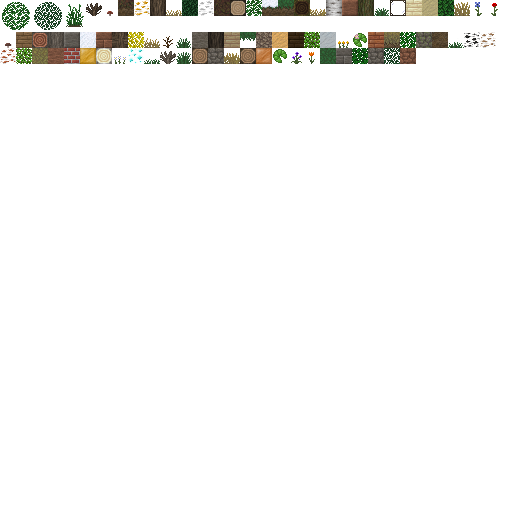
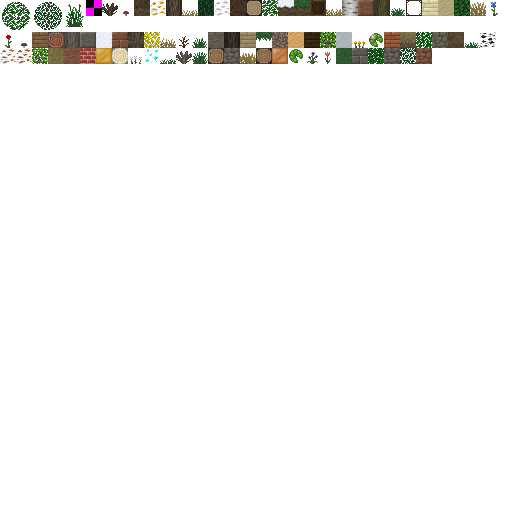
Refactored Timer class and made Texture Atlas load missing texture.

Changed region(s): [[0.0, 0.0625, 0.9688, 0.125], [0.1562, 0.0, 0.9688, 0.0312]]

diff --git a/GlProject/engine/TextureAtlas.cpp b/GlProject/engine/TextureAtlas.cpp
@@ -36,19 +36,19 @@ TextureAtlas::TextureAtlas(const char* directory) {
     glGetIntegerv(GL_MAX_TEXTURE_SIZE, &maxTexSize);
     std::cout << "This GPU's max texture size is: " << maxTexSize / 4 << "px^2." << std::endl;
 
-    //Using cute_files to open the directory and recursively search for files.
+    //Using cute_files to open the directory and search for files.
     //Filter the files by extension and add all of them to a vector as TextureRefs.
     cf_dir_t dir;
     cf_dir_open(&dir, (std::string(directory) + std::string("/game")).c_str());
 
     std::list<TextureRef> textureRefs;
-//
-//    //Load Missing Texture
-//    auto msg = TextureRef();
-//    strcpy(msg.path, "../Textures/_missing.png");
-//    strcpy(msg.name, "_missing.png");
-//    msg.texData = stbi_load(msg.path, &msg.width, &msg.height, &msg.bitDepth, 4);
-//    textureRefs.push_back(msg);
+
+    //Load Missing Texture
+    auto msg = TextureRef();
+    strcpy(msg.path, "../Textures/_missing.png");
+    strcpy(msg.name, "_missing.png");
+    msg.texData = stbi_load(msg.path, &msg.width, &msg.height, &msg.bitDepth, 4);
+    textureRefs.push_back(msg);
 
     //Iterate though the files
     while (dir.has_next) {
@@ -57,7 +57,7 @@ TextureAtlas::TextureAtlas(const char* directory) {
 
         if (!file.is_dir && strcmp(file.ext, ".png") == 0) {
 
-//            printf("Processing Texture: %s\n", file.name);
+            printf("Loading Texture: %s\n", file.name);
 
             auto ref = TextureRef();
             strcpy(ref.path, file.path);
@@ -138,10 +138,11 @@ TextureAtlas::TextureAtlas(const char* directory) {
 Texture* TextureAtlas::getTexture() {
     return texture;
 }
+
 glm::vec4* TextureAtlas::getUVs(std::string* texture) {
     if (textures.count(*texture) == 0) {
         std::cout << "Texture '" << *texture << "' Not found in atlas! Terminating." << std::endl;
-        throw "Texture not found error";
+        throw std::exception();
     }
     return &textures.at(*texture);
 }

diff --git a/GlProject/engine/Timer.cpp b/GlProject/engine/Timer.cpp
@@ -9,7 +9,7 @@ Timer::Timer(const char* name) {
      start = std::chrono::high_resolution_clock::now();
 }
 
-void Timer::elapsed() {
+void Timer::elapsedNs() {
      auto finish = std::chrono::high_resolution_clock::now();
 
      long elapsed = std::chrono::duration_cast<std::chrono::nanoseconds>(finish - start).count();
@@ -17,7 +17,7 @@ void Timer::elapsed() {
      printf("%s took %ld ns.\n", this->name, elapsed);
 }
 
-void Timer::elapsedInMs() {
+void Timer::elapsedMs() {
      auto finish = std::chrono::high_resolution_clock::now();
 
      double elapsed = std::chrono::duration_cast<std::chrono::nanoseconds>(finish - start).count() / (double)1000000;
@@ -25,3 +25,10 @@ void Timer::elapsedInMs() {
      printf("%s took %.2f ms.\n", this->name, elapsed);
 }
 
+void Timer::elapsed() {
+    auto finish = std::chrono::high_resolution_clock::now();
+
+    double elapsed = std::chrono::duration_cast<std::chrono::nanoseconds>(finish - start).count() / (double)1000000 / (double)1000;
+
+    printf("%s took %.2f secs.\n", this->name, elapsed);
+}

diff --git a/GlProject/Main.cpp b/GlProject/Main.cpp
@@ -77,6 +77,8 @@ void makeEntities(BlockModel* model) {
 }
 
 int main() {
+	Timer boot("Initialization");
+
     //Window
     window = new Window(1366, 768);
     window->initialize();
@@ -102,6 +104,8 @@ int main() {
     glEnable(GL_CULL_FACE);
     glEnable(GL_BLEND);
     glBlendFunc(GL_SRC_ALPHA, GL_ONE_MINUS_SRC_ALPHA);
+
+    boot.elapsed();
 
 	//Game Loop
 	while (!window->getShouldClose()) {
@@ -139,7 +143,7 @@ int main() {
 		//Finish Drawing
 		window->swapBuffers();
 
-//		t.elapsedInMs();
+//		t.elapsedMs();
 	}
 
 	return 0;

diff --git a/GlProject/mesh/MeshGenerator.cpp b/GlProject/mesh/MeshGenerator.cpp
@@ -48,7 +48,7 @@ void MeshGenerator::build(int blocks[CHUNK_SIZE][CHUNK_SIZE][CHUNK_SIZE], BlockM
     vertices.shrink_to_fit();
     indices.shrink_to_fit();
 
-    t.elapsedInMs();
+    t.elapsedMs();
 }
 
 void MeshGenerator::addFaces(int x, int y, int z, vector<float> &vertices, vector<unsigned int> &indices, vector<MeshPart*> meshParts) {

diff --git a/GlProject/engine/Timer.h b/GlProject/engine/Timer.h
@@ -12,8 +12,9 @@ class Timer {
 public:
     explicit Timer(const char* name);
 
-    void elapsed();
-    void elapsedInMs();
+    void elapsedNs();
+    void elapsedMs();
+    void elapsed(); //Seconds
 private:
     const char* name;
     std::chrono::high_resolution_clock::time_point start;
